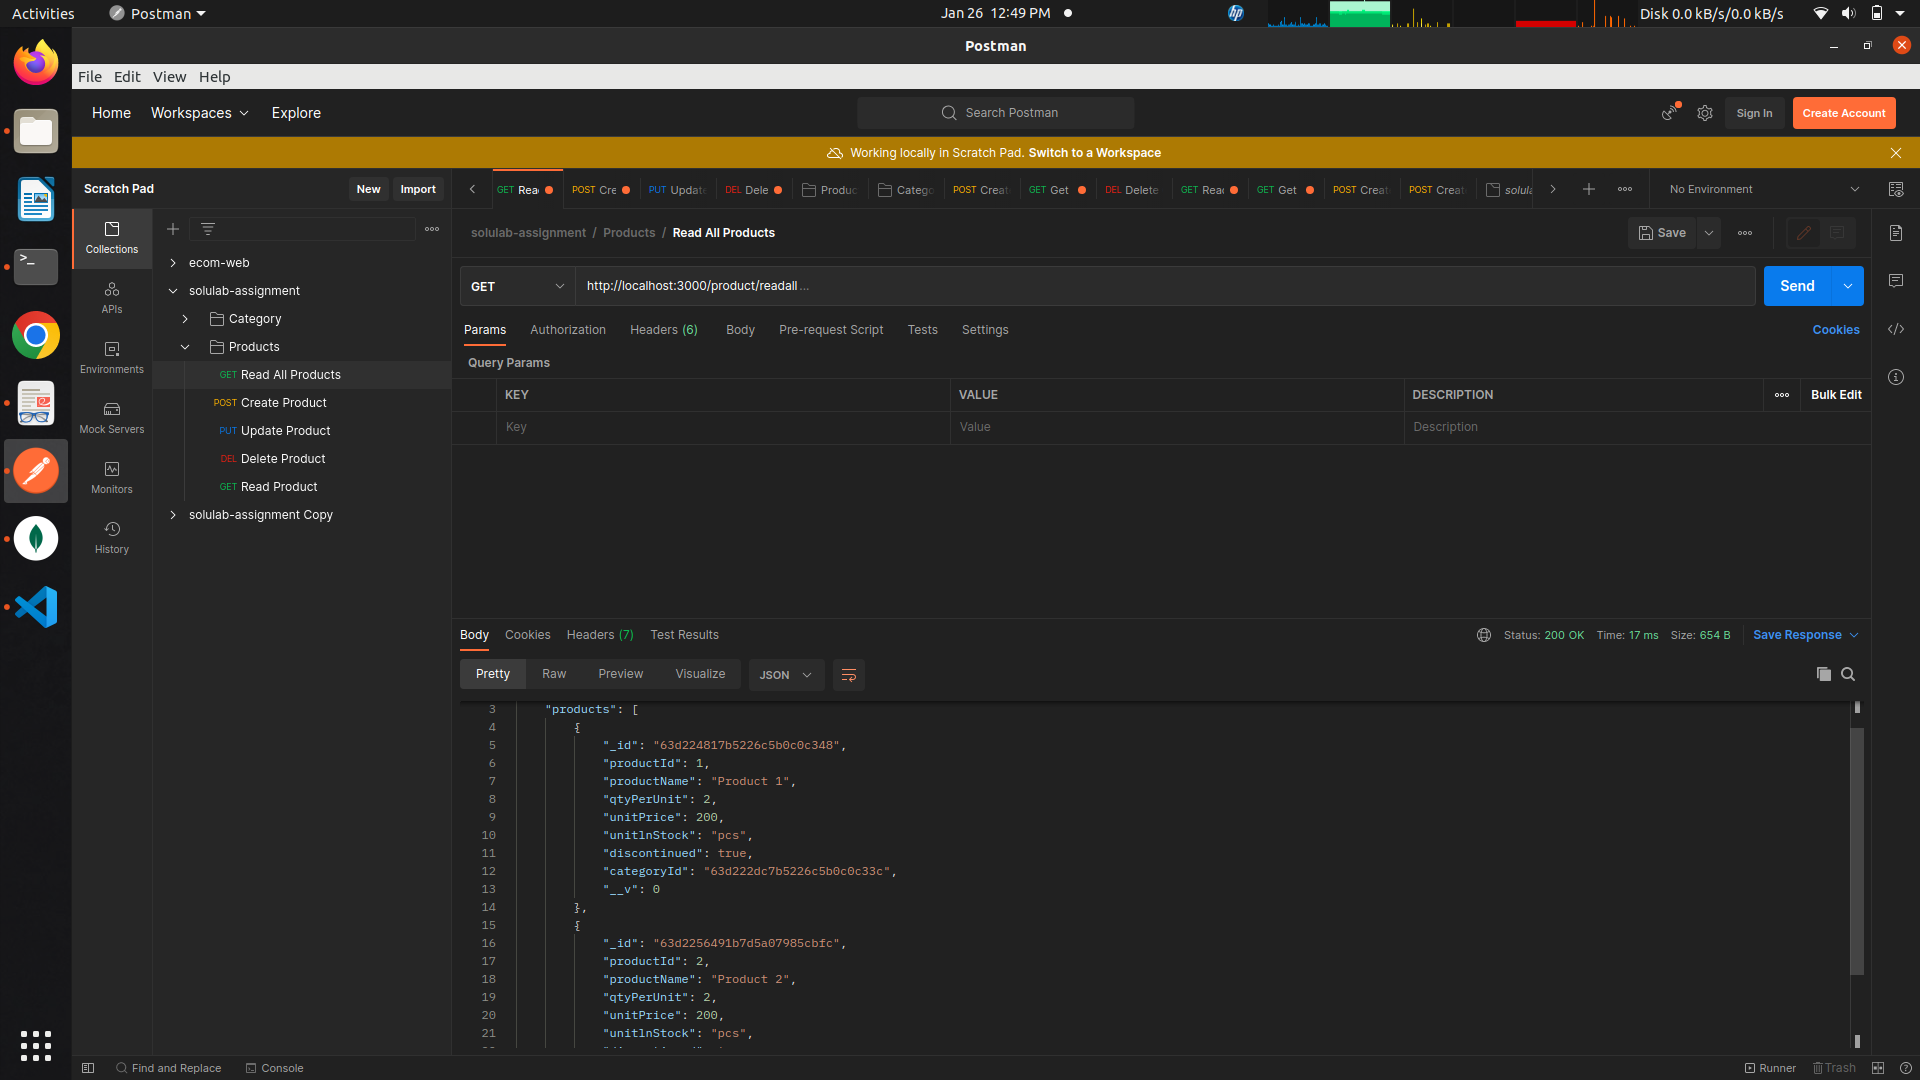
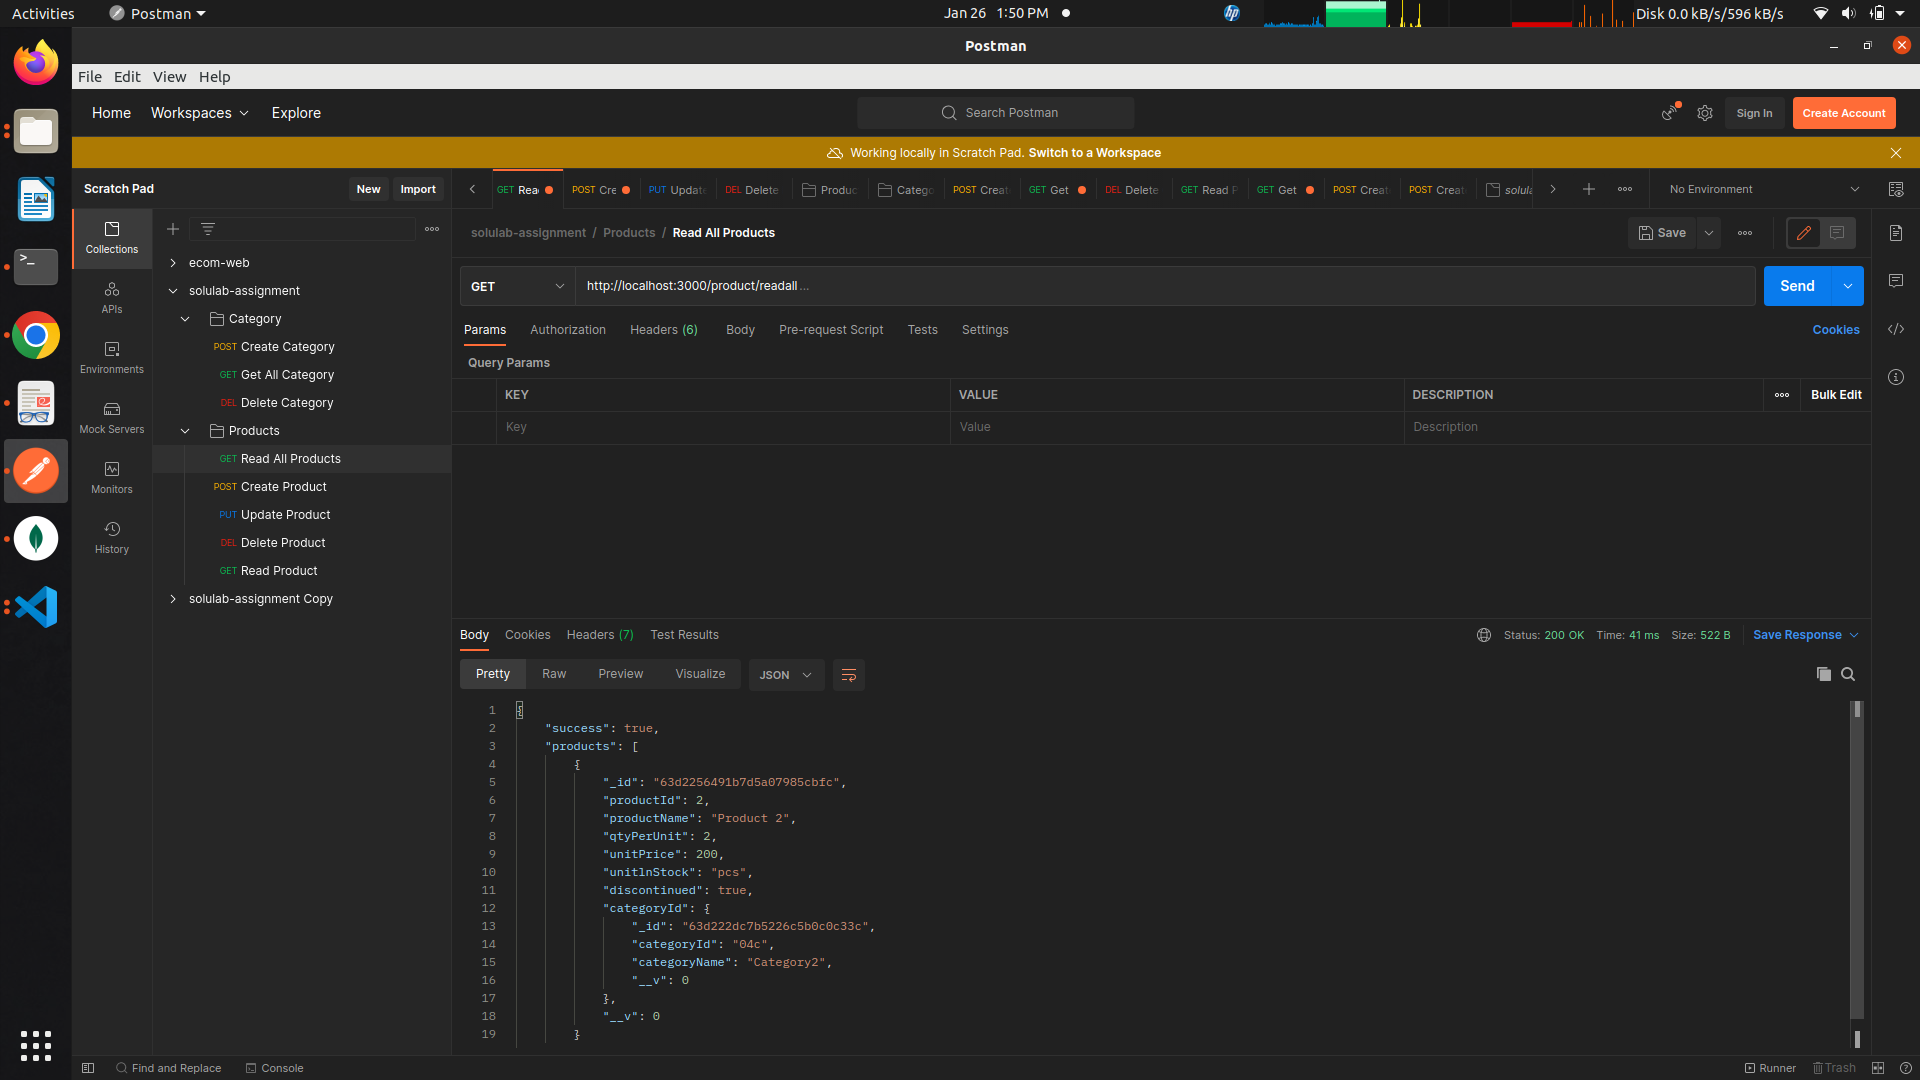
updates

diff --git a/controllers/productController.js b/controllers/productController.js
@@ -68,7 +68,7 @@ exports.createProduct = async (req,res)=>{
 
 exports.getAllProducts = async (req,res)=>{
     try{
-        const products = await Product.find();
+        const products = await Product.find().populate("categoryId");
         res.status(200).json({
             success:true,
             products
